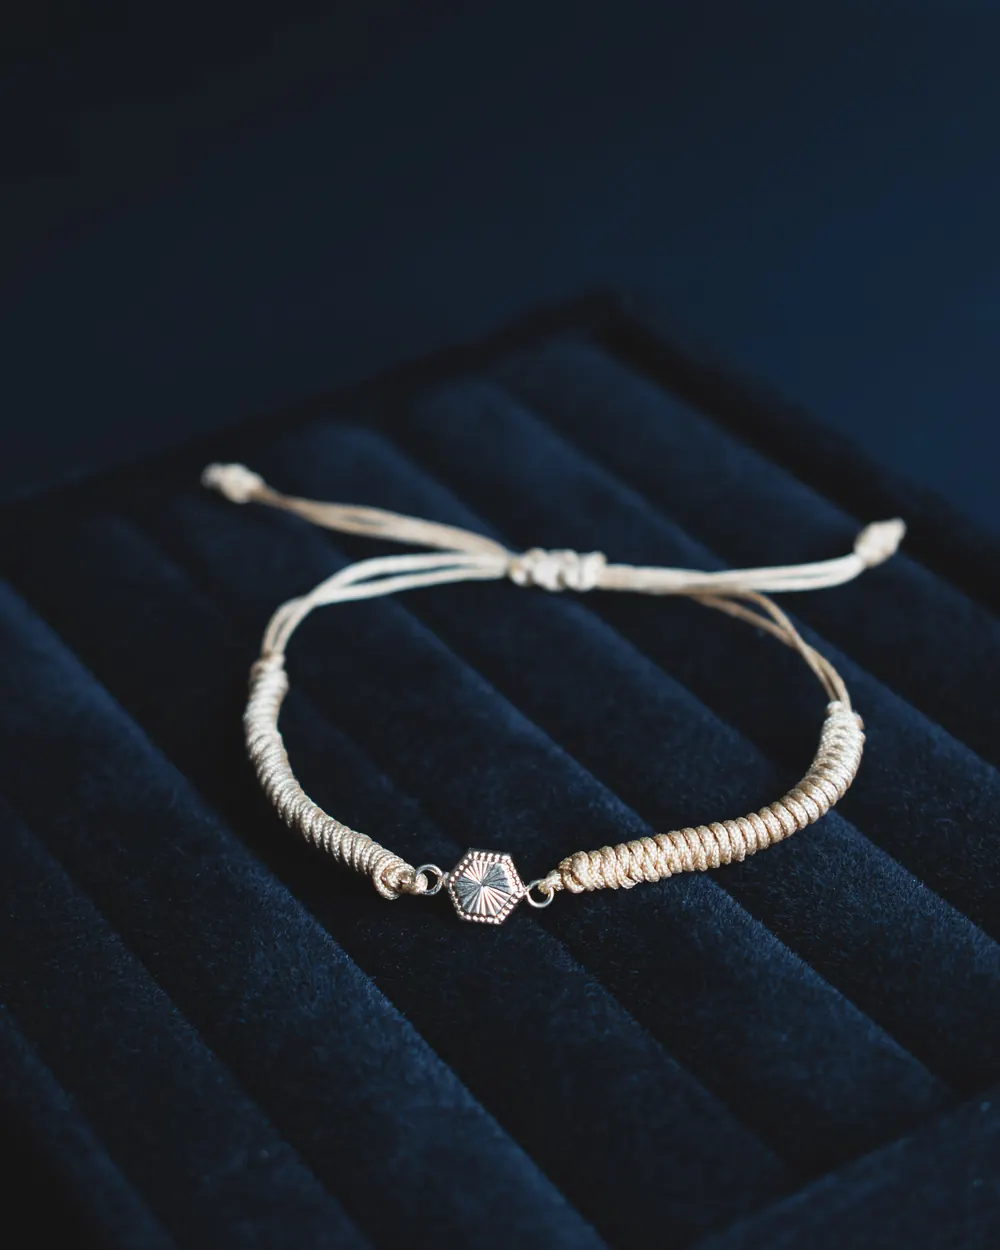
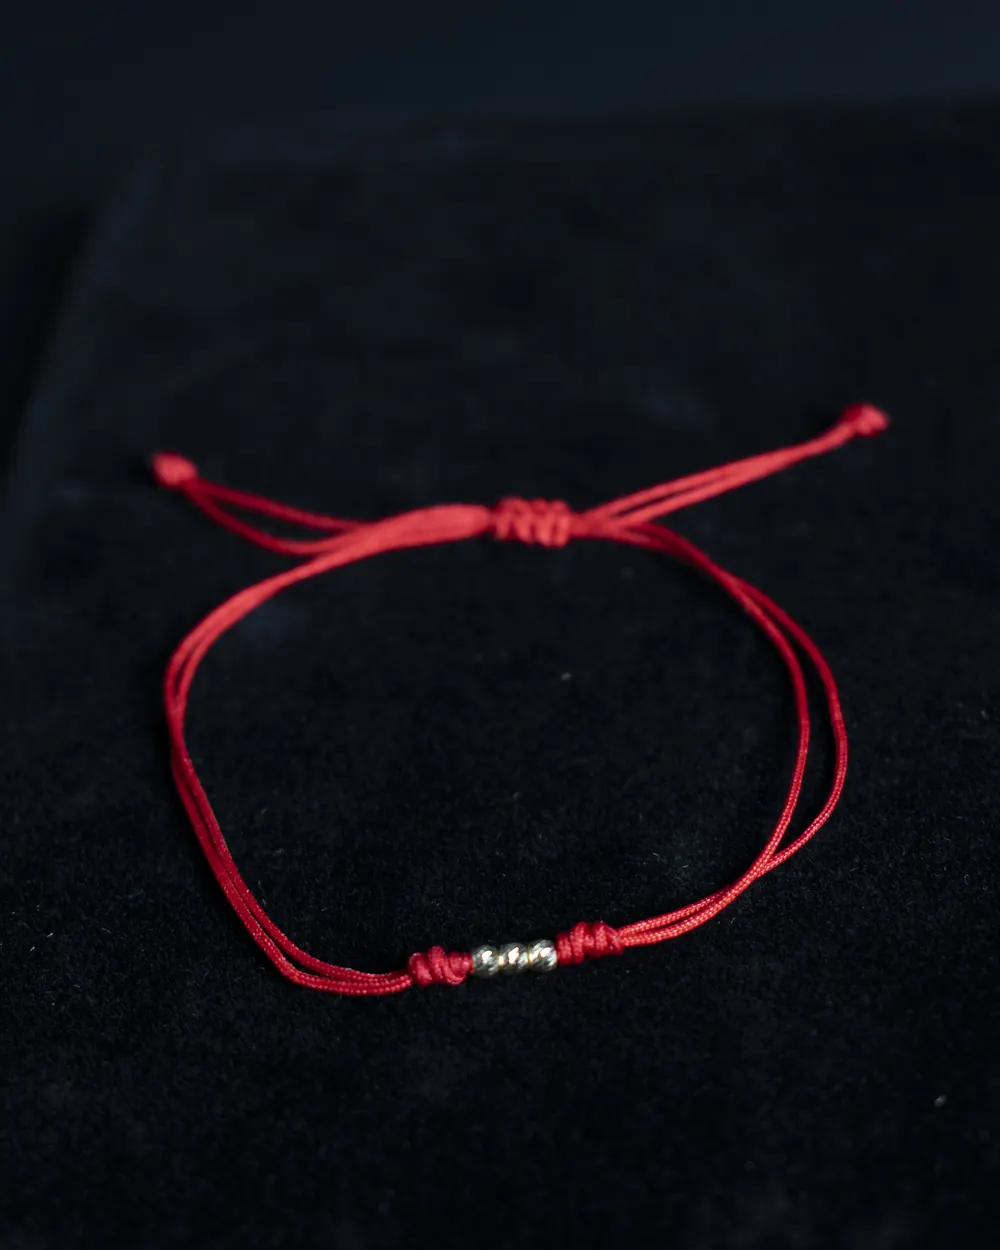
feat: Alma usa el cordón rojo fino con balines (0340, 0341)
Claude-Session: https://claude.ai/code/session_01VxAyZCstGyEpo6zTFDEtnV

diff --git a/lib/products.ts b/lib/products.ts
@@ -29,7 +29,7 @@ const { auraGeneral, auraDetalle, auraPuesta, siempreGeneral, ig1, ig2, ig3, ig4
 export const PRODUCTS: Product[] = [
   { id: "semilla", tier: "ESSENTIAL", name: "Semilla", priceNum: 89900, desc: "Tu entrada al universo EDEN.", longDesc: "La puerta de entrada a EDEN: tejido a mano con balines de oro 18k, pensada para no quitártela nunca.", gallery: ["/images/semilla-1.webp", "/images/semilla-2.webp", "/images/semilla-3.webp"] },
   { id: "esencia", tier: "ESSENTIAL", name: "Esencia", priceNum: 119900, featured: true, desc: "Lo esencial, en oro 18k.", longDesc: "Lo esencial de EDEN: tejido a mano en oro 18k, sobrio y para todos los días.", gallery: ["/images/esencia-1.webp", "/images/esencia-2.webp", "/images/esencia-3.webp"] },
-  { id: "alma", tier: "ESSENTIAL", name: "Alma", priceNum: 179900, desc: "Carácter en su forma más pura.", longDesc: "Una pieza con carácter: balines de oro 18k tejidos a mano, para llevar sola o en capas.", gallery: ["/images/alma-1.webp"] },
+  { id: "alma", tier: "ESSENTIAL", name: "Alma", priceNum: 179900, desc: "Carácter en su forma más pura.", longDesc: "Una pieza con carácter: balines de oro 18k tejidos a mano, para llevar sola o en capas.", gallery: ["/images/alma-1.webp", "/images/alma-2.webp"] },
   { id: "vertice", tier: "SIGNATURE", name: "Vértice", priceNum: 259900, desc: "El punto donde EDEN se define.", longDesc: "El corazón de la colección: tejido a mano en oro 18k, con la presencia justa.", gallery: ["/images/vertice-1.webp", "/images/vertice-2.webp", "/images/vertice-3.webp"] },
   { id: "aura", tier: "SIGNATURE", name: "Aura", priceNum: 329900, special: true, dije: true, desc: "Cordón rojo con medalla de San Benito.", longDesc: "Pieza icónica: cordón tejido en rojo con balines de oro 18k y medalla de San Benito en Oro 18K. Protección que se lleva puesta, todos los días.", gallery: [auraGeneral, auraDetalle, auraPuesta] },
   { id: "pulso", tier: "SIGNATURE", name: "Pulso", priceNum: 379900, desc: "Ritmo y presencia en oro 18k.", longDesc: "Ritmo y presencia: tejido a mano en oro 18k, el pulso de la colección Signature.", gallery: ["/images/pulso-1.webp", "/images/pulso-2.webp"] },
